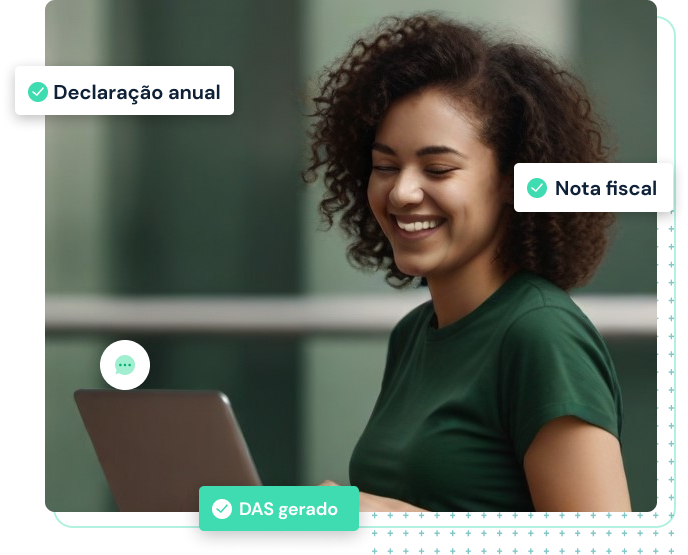
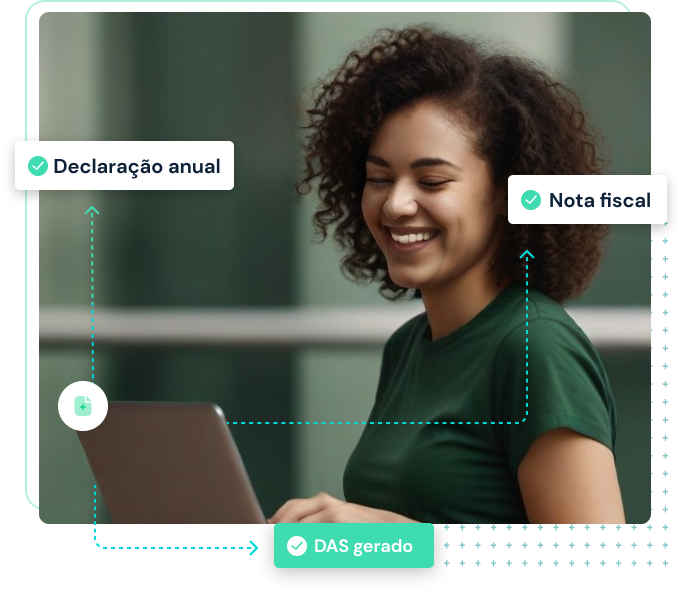
📦 NEW: new image hero

diff --git a/css/main.css b/css/main.css
@@ -1,1 +1,1 @@
-*{margin:0;padding:0;list-style-type:none;list-style:none;text-decoration:none;outline:none;border:none;-webkit-box-sizing:border-box;box-sizing:border-box;font-family:"Inter",sans-serif}img{max-width:100%;display:block}html{font-size:62.5%;overflow-x:hidden}button{background-color:rgba(0,0,0,0);cursor:pointer}.container{width:100%;max-width:124.6rem;padding:0 15px;margin:0 auto}.d-flex{display:-webkit-box;display:-ms-flexbox;display:flex}.between{-webkit-box-pack:justify;-ms-flex-pack:justify;justify-content:space-between}.text-center{text-align:center}.align-center{-webkit-box-align:center;-ms-flex-align:center;align-items:center}.text-dark{color:#33303e}.color-light{color:#fff}.text-cancel{color:#ced7e1}.btn-whats{display:none;position:fixed;bottom:25px;right:20px;background-color:#25cb9e;padding:12px 12px 10px 13px;border-radius:50px;z-index:10;-webkit-box-shadow:5px 1px 15px 2px rgba(0,0,0,.26);box-shadow:5px 1px 15px 2px rgba(0,0,0,.26)}.mt-1{margin-top:.25rem}.mt-2{margin-top:.5rem}.mt-3{margin-top:1rem}.mt-4{margin-top:1.5rem}.mt-5{margin-top:3rem}.mr-1{margin-right:.25rem}.mr-2{margin-right:.5rem}.mr-3{margin-right:1rem}.mr-4{margin-right:1.5rem}.mr-5{margin-right:3rem}.mb-1{margin-bottom:.25rem}.mb-2{margin-bottom:.5rem}.mb-3{margin-bottom:1rem}.mb-4{margin-bottom:1.5rem}.mb-5{margin-bottom:3rem}.ml-1{margin-left:.25rem}.ml-2{margin-left:.5rem}.ml-3{margin-left:1rem}.ml-4{margin-left:1.5rem}.ml-5{margin-left:3rem}.pt-1{padding-top:.25rem}.pt-2{padding-top:.5rem}.pt-3{padding-top:1rem}.pt-4{padding-top:1.5rem}.pt-5{padding-top:3rem}.pr-1{padding-right:.25rem}.pr-2{padding-right:.5rem}.pr-3{padding-right:1rem}.pr-4{padding-right:1.5rem}.pr-5{padding-right:3rem}.pb-1{padding-bottom:.25rem}.pb-2{padding-bottom:.5rem}.pb-3{padding-bottom:1rem}.pb-4{padding-bottom:1.5rem}.pb-5{padding-bottom:3rem}.pl-1{padding-left:.25rem}.pl-2{padding-left:.5rem}.pl-3{padding-left:1rem}.pl-4{padding-left:1.5rem}.pl-5{padding-left:3rem}.mx-auto{margin-left:auto;margin-right:auto}.my-auto{margin-top:auto;margin-bottom:auto}h1{font-weight:600;font-size:6.4rem}h2{font-weight:bold;font-size:4rem}h3{font-size:2.4rem;line-height:150%}h4{font-size:2rem;line-height:112%}h1,h2{line-height:112%;letter-spacing:-1px}h3,h4{font-weight:500;letter-spacing:-1px}h1,h2,h3,h4{font-family:"Barlow",sans-serif;color:#4e4b59}p{font-weight:400;font-size:1.8rem;line-height:150%;color:#33303e}.subtitle{color:#00d7d7;display:table;font-size:1.4rem;font-weight:500;padding:2px 15px;border-radius:25px;margin:0 auto;text-transform:uppercase}.title-section{font-weight:600;font-size:3.5rem;text-align:center;margin-top:8px}.btn-primary,.btn-secondary{font-family:"Montserrat",sans-serif;border-radius:12px;padding:0 3rem;font-size:1.8rem;line-height:4.5rem;font-weight:500}.btn-primary{background-color:#00d7d7;font-weight:500;color:#242424;-webkit-transition:background-color .3s;transition:background-color .3s;color:#fff}.btn-primary:hover{background-color:#2ed1be}.btn-secondary{border:1px solid #00d7d7;background-color:rgba(0,0,0,0);font-weight:500;color:#00d7d7;-webkit-transition:all .3s;transition:all .3s}.btn-secondary:hover{background-color:#2ed1be;color:#fff}.btn-secondary.white{border:1px solid #fff;color:#fff;-webkit-transition:all .3s;transition:all .3s}.btn-secondary.white:hover{background-color:#fff;color:#ffce2e}@media(max-width: 600px){.btn-primary{line-height:.8rem;height:45px;padding:0 2rem;font-size:1.5rem}}header{position:absolute;top:0;left:0;width:100%;height:8rem;display:-webkit-box;display:-ms-flexbox;display:flex;border-bottom:2px solid #ecf2fb;background-color:#fff}header .btn-secondary{border:none}header .container{display:-webkit-box;display:-ms-flexbox;display:flex;-webkit-box-orient:vertical;-webkit-box-direction:normal;-ms-flex-direction:center;flex-direction:center;-webkit-box-align:center;-ms-flex-align:center;align-items:center;-webkit-box-pack:justify;-ms-flex-pack:justify;justify-content:space-between}header nav{display:-webkit-box;display:-ms-flexbox;display:flex;-webkit-box-align:center;-ms-flex-align:center;align-items:center}header nav ul{display:-webkit-box;display:-ms-flexbox;display:flex;-webkit-box-align:center;-ms-flex-align:center;align-items:center}header nav ul li{display:-webkit-box;display:-ms-flexbox;display:flex}header nav ul li img{margin-left:1.2rem}header nav ul li:not(:first-child){margin-left:4.8rem}header nav ul li a{font-family:"Inter",sans-serif;font-weight:500;font-size:1.6rem;line-height:125%;color:#404040;opacity:.7;-webkit-transition:color .3s;transition:color .3s}header nav ul li a:hover{color:#00d7d7}@media(max-width: 800px){header nav ul{display:none}}@media(max-width: 600px){header{display:-webkit-box;display:-ms-flexbox;display:flex;-webkit-box-align:center;-ms-flex-align:center;align-items:center}header nav ul{display:none}header .dots{display:block}header .btn-secondary{display:none}}.menu-mobile{background:#fff;border-radius:8px;width:100%;height:50vh;position:fixed;right:0;bottom:0;z-index:12;display:none}.menu-mobile::before{content:"";width:100%;height:50vh;background-color:rgba(0,0,0,.7098039216);position:absolute;top:-100%}.menu-mobile__icons{position:absolute;position:absolute;bottom:0;left:50%;-webkit-transform:translateX(-50%);transform:translateX(-50%)}.menu-mobile__icons svg{width:24px;margin:8px}.menu-mobile .icon-tabler-x{position:absolute;top:16px;right:16px}.menu-mobile ul{width:100%;position:absolute;top:50%;-webkit-transform:translateY(-55%);transform:translateY(-55%)}.menu-mobile ul li{text-align:center;font-size:2rem;margin:24px 0;font-weight:700}.menu-mobile ul li a{color:#242424}.show{display:block}.dots{color:#fff;background-color:#00d7d7;padding:8px;border-radius:40px;margin-right:16px;display:none}.dots .icons-dots{display:none}footer{background-color:#fff;padding-top:8rem;font-size:2rem;font-size:1.4rem;line-height:165%;color:#c6c5ce;border-top:2px solid #ecf2fb;z-index:1;position:relative}footer .footer_description{max-width:100%}footer .d-flex{-webkit-box-pack:justify;-ms-flex-pack:justify;justify-content:space-between}footer .d-flex h4{margin-bottom:24px;color:#7a7786}footer .d-flex a{color:#7a7786;margin:8px 0}footer .d-flex a:hover{color:#25cb9e}footer .d-flex address a{display:-webkit-box;display:-ms-flexbox;display:flex;-webkit-box-align:center;-ms-flex-align:center;align-items:center;margin-bottom:24px}footer .d-flex address span{margin-right:16px}footer .d-flex ul li{display:-webkit-box;display:-ms-flexbox;display:flex;-webkit-box-align:center;-ms-flex-align:center;align-items:center}footer .d-flex ul li span{margin-right:8px;display:-webkit-box;display:-ms-flexbox;display:flex;-webkit-box-align:center;-ms-flex-align:center;align-items:center;color:#7a7786}footer .credits{border-top:1px solid #272727;padding:3rem 0;margin-top:64px;position:relative;background:radial-gradient(circle at 50% 72%, #044740 0, #002824 55%);background-color:#170027}footer .credits .btn-top{position:absolute;top:-18px;left:50%;-webkit-transform:translateX(-50%);transform:translateX(-50%);background-color:#242424;color:#fff;border-radius:80px;width:34px;height:34px;display:-webkit-box;display:-ms-flexbox;display:flex;-webkit-box-align:center;-ms-flex-align:center;align-items:center;-webkit-box-pack:center;-ms-flex-pack:center;justify-content:center;-webkit-box-shadow:2px 6px 10px 2px rgba(0,0,0,.2);box-shadow:2px 6px 10px 2px rgba(0,0,0,.2);-webkit-transition:all .3s;transition:all .3s}footer .credits .btn-top:hover{background-color:#25cb9e}footer .credits .container{display:-webkit-box;display:-ms-flexbox;display:flex;-webkit-box-orient:vertical;-webkit-box-direction:normal;-ms-flex-direction:center;flex-direction:center;-webkit-box-align:center;-ms-flex-align:center;align-items:center;-webkit-box-pack:justify;-ms-flex-pack:justify;justify-content:space-between}footer .credits .e-font-icon-svg{width:24px;color:#2ed1be;margin-right:16px}@media(max-width: 600px){footer .d-flex{-webkit-box-orient:vertical;-webkit-box-direction:normal;-ms-flex-direction:column;flex-direction:column}footer .d-flex h4{margin:24px 0}footer .wps-games{margin-top:16px;display:-webkit-box;display:-ms-flexbox;display:flex;-webkit-box-orient:vertical;-webkit-box-direction:normal;-ms-flex-direction:column;flex-direction:column}}@media(max-width: 500px){footer .credits{z-index:11;background-color:#25cb9e}}.s-hero{width:100%;background-color:#fff;padding-top:15.1rem}.s-hero .d-flex{-webkit-box-align:center;-ms-flex-align:center;align-items:center}.s-hero__text{margin-bottom:3.9rem;width:50%}.s-hero__text .lead{display:-webkit-box;display:-ms-flexbox;display:flex;-webkit-box-align:center;-ms-flex-align:center;align-items:center;color:#00d7d7;font-size:1.6rem;font-weight:500}.s-hero__text .title{font-size:4.5rem;line-height:120%;font-weight:600;color:#4e4b59;max-width:74rem}.s-hero__text .description{max-width:50rem;margin-top:3.4rem;margin-bottom:4rem;font-weight:400;font-size:1.8rem;line-height:150%;color:#595959}.s-hero__text .infos{max-width:95%;margin-top:7rem}.s-hero__text .infos li{border-bottom:1px solid #efefef;padding:9px}.s-hero__text .infos__title{color:#4e4b59;font-size:2.5rem}.s-hero__text .infos__description{font-size:1.4rem;color:#595959}.s-hero__image{margin:0 auto;width:45%}.s-hero__image img{border-radius:10px}@media(max-width: 800px){.s-hero{padding-top:12rem}.s-hero .d-flex{-webkit-box-orient:vertical;-webkit-box-direction:normal;-ms-flex-direction:column;flex-direction:column}.s-hero__text{text-align:center;width:100%}.s-hero__text .btn-primary{margin:0 auto;display:-webkit-box;display:-ms-flexbox;display:flex;-webkit-box-pack:justify;-ms-flex-pack:justify;justify-content:space-between;-webkit-box-orient:horizontal;-webkit-box-direction:normal;-ms-flex-direction:row;flex-direction:row}.s-hero__text .title{font-size:3rem}.s-hero__text .description{max-width:75%;margin:3rem auto}.s-hero__text .lead{-webkit-box-align:center;-ms-flex-align:center;align-items:center;-webkit-box-pack:center;-ms-flex-pack:center;justify-content:center}.s-hero__text .lead span{display:none}.s-hero__text .infos{-webkit-box-orient:horizontal;-webkit-box-direction:normal;-ms-flex-direction:row;flex-direction:row}.s-hero__image{width:100%}}.s-about{padding:90px 0}.s-about .d-flex{-ms-flex-pack:distribute;justify-content:space-around;-webkit-box-align:center;-ms-flex-align:center;align-items:center;margin-top:8rem}.s-about__image{width:45%}.s-about__text{width:50%}@media(max-width: 800px){.s-about .d-flex{-webkit-box-orient:vertical;-webkit-box-direction:reverse;-ms-flex-direction:column-reverse;flex-direction:column-reverse;margin-top:2.5rem}.s-about__image{width:100%;margin-top:4rem}.s-about__text{width:100%}.s-about__text p{text-align:left}.s-about__text h4{text-align:center}.s-about__text img{margin:0 auto}}.s-service{padding:90px 0;background:-webkit-gradient(linear, left top, left bottom, from(rgb(255, 255, 255)), to(rgb(225, 255, 247)));background:linear-gradient(rgb(255, 255, 255) 0%, rgb(225, 255, 247) 100%)}.s-service .box-container{display:-webkit-box;display:-ms-flexbox;display:flex;-webkit-box-align:center;-ms-flex-align:center;align-items:center;-webkit-box-pack:center;-ms-flex-pack:center;justify-content:center;gap:50px;margin-top:80px}.s-service .box{width:30%;background-color:#fff;border:1px solid #ececec;border-radius:10px;padding:16px;position:relative}.s-service .box .badge{background-color:#25cb9e;padding:4px 8px;color:#fff;border-radius:8px;font-weight:500;display:table;margin:0 auto;position:absolute;left:50%;-webkit-transform:translateX(-50%);transform:translateX(-50%)}.s-service .box .d-flex-price{display:-webkit-box;display:-ms-flexbox;display:flex;margin-top:24px;-webkit-box-pack:justify;-ms-flex-pack:justify;justify-content:space-between}.s-service .box .price{color:#25cb9e;font-weight:600}.s-service .box ul{margin-top:5rem}.s-service .box ul li{display:-webkit-box;display:-ms-flexbox;display:flex;font-size:1.6rem;margin-bottom:2rem}.s-service .box ul li img{margin-right:16px}.s-service .box .btn-price{background-color:rgba(170,255,232,.3568627451);color:#25cb9e;font-weight:600;padding:8px 16px;border-radius:4px;font-size:1.6rem;display:-webkit-box;display:-ms-flexbox;display:flex;-webkit-box-align:center;-ms-flex-align:center;align-items:center;-webkit-box-pack:center;-ms-flex-pack:center;justify-content:center;width:80%;margin:0 auto;margin-top:60px;-webkit-transition:all .3s ease;transition:all .3s ease;margin-bottom:24px}.s-service .box .btn-price:hover{background-color:rgba(170,255,232,.8549019608)}.s-service .box:hover{border:1px solid #25cb9e}@media(max-width: 640px){.s-service .d-flex{-webkit-box-orient:vertical;-webkit-box-direction:reverse;-ms-flex-direction:column-reverse;flex-direction:column-reverse;margin-top:2.5rem}.s-service .box{width:100%}}
+*{margin:0;padding:0;list-style-type:none;list-style:none;text-decoration:none;outline:none;border:none;-webkit-box-sizing:border-box;box-sizing:border-box;font-family:"Inter",sans-serif}img{max-width:100%;display:block}html{font-size:62.5%;overflow-x:hidden}button{background-color:rgba(0,0,0,0);cursor:pointer}.container{width:100%;max-width:124.6rem;padding:0 15px;margin:0 auto}.d-flex{display:-webkit-box;display:-ms-flexbox;display:flex}.between{-webkit-box-pack:justify;-ms-flex-pack:justify;justify-content:space-between}.text-center{text-align:center}.align-center{-webkit-box-align:center;-ms-flex-align:center;align-items:center}.text-dark{color:#33303e}.color-light{color:#fff}.text-cancel{color:#ced7e1}.btn-whats{display:none;position:fixed;bottom:25px;right:20px;background-color:#25cb9e;padding:12px 12px 10px 13px;border-radius:50px;z-index:10;-webkit-box-shadow:5px 1px 15px 2px rgba(0,0,0,.26);box-shadow:5px 1px 15px 2px rgba(0,0,0,.26)}.mt-1{margin-top:.25rem}.mt-2{margin-top:.5rem}.mt-3{margin-top:1rem}.mt-4{margin-top:1.5rem}.mt-5{margin-top:3rem}.mr-1{margin-right:.25rem}.mr-2{margin-right:.5rem}.mr-3{margin-right:1rem}.mr-4{margin-right:1.5rem}.mr-5{margin-right:3rem}.mb-1{margin-bottom:.25rem}.mb-2{margin-bottom:.5rem}.mb-3{margin-bottom:1rem}.mb-4{margin-bottom:1.5rem}.mb-5{margin-bottom:3rem}.ml-1{margin-left:.25rem}.ml-2{margin-left:.5rem}.ml-3{margin-left:1rem}.ml-4{margin-left:1.5rem}.ml-5{margin-left:3rem}.pt-1{padding-top:.25rem}.pt-2{padding-top:.5rem}.pt-3{padding-top:1rem}.pt-4{padding-top:1.5rem}.pt-5{padding-top:3rem}.pr-1{padding-right:.25rem}.pr-2{padding-right:.5rem}.pr-3{padding-right:1rem}.pr-4{padding-right:1.5rem}.pr-5{padding-right:3rem}.pb-1{padding-bottom:.25rem}.pb-2{padding-bottom:.5rem}.pb-3{padding-bottom:1rem}.pb-4{padding-bottom:1.5rem}.pb-5{padding-bottom:3rem}.pl-1{padding-left:.25rem}.pl-2{padding-left:.5rem}.pl-3{padding-left:1rem}.pl-4{padding-left:1.5rem}.pl-5{padding-left:3rem}.mx-auto{margin-left:auto;margin-right:auto}.my-auto{margin-top:auto;margin-bottom:auto}h1{font-weight:600;font-size:6.4rem}h2{font-weight:bold;font-size:4rem}h3{font-size:2.4rem;line-height:150%}h4{font-size:2rem;line-height:112%}h1,h2{line-height:112%;letter-spacing:-1px}h3,h4{font-weight:500;letter-spacing:-1px}h1,h2,h3,h4{font-family:"Barlow",sans-serif;color:#4e4b59}p{font-weight:400;font-size:1.8rem;line-height:150%;color:#33303e}.subtitle{color:#00d7d7;display:table;font-size:1.4rem;font-weight:500;padding:2px 15px;border-radius:25px;margin:0 auto;text-transform:uppercase}.title-section{font-weight:600;font-size:3.5rem;text-align:center;margin-top:8px}.btn-primary,.btn-secondary{font-family:"Montserrat",sans-serif;border-radius:12px;padding:0 3rem;font-size:1.8rem;line-height:4.5rem;font-weight:500}.btn-primary{background-color:#00d7d7;font-weight:500;color:#242424;-webkit-transition:background-color .3s;transition:background-color .3s;color:#fff}.btn-primary:hover{background-color:#2ed1be}.btn-secondary{border:1px solid #00d7d7;background-color:rgba(0,0,0,0);font-weight:500;color:#00d7d7;-webkit-transition:all .3s;transition:all .3s}.btn-secondary:hover{background-color:#2ed1be;color:#fff}.btn-secondary.white{border:1px solid #fff;color:#fff;-webkit-transition:all .3s;transition:all .3s}.btn-secondary.white:hover{background-color:#fff;color:#ffce2e}@media(max-width: 600px){.btn-primary{line-height:.8rem;height:45px;padding:0 2rem;font-size:1.5rem}}header{position:fixed;top:0;left:0;width:100%;height:8rem;display:-webkit-box;display:-ms-flexbox;display:flex;z-index:12;border-bottom:2px solid #ecf2fb;background-color:#fff}header .btn-secondary{border:none}header .container{display:-webkit-box;display:-ms-flexbox;display:flex;-webkit-box-orient:vertical;-webkit-box-direction:normal;-ms-flex-direction:center;flex-direction:center;-webkit-box-align:center;-ms-flex-align:center;align-items:center;-webkit-box-pack:justify;-ms-flex-pack:justify;justify-content:space-between}header nav{display:-webkit-box;display:-ms-flexbox;display:flex;-webkit-box-align:center;-ms-flex-align:center;align-items:center}header nav ul{display:-webkit-box;display:-ms-flexbox;display:flex;-webkit-box-align:center;-ms-flex-align:center;align-items:center}header nav ul li{display:-webkit-box;display:-ms-flexbox;display:flex}header nav ul li img{margin-left:1.2rem}header nav ul li:not(:first-child){margin-left:4.8rem}header nav ul li a{font-family:"Inter",sans-serif;font-weight:500;font-size:1.6rem;line-height:125%;color:#404040;opacity:.7;-webkit-transition:color .3s;transition:color .3s}header nav ul li a:hover{color:#00d7d7}@media(max-width: 800px){header nav ul{display:none}}@media(max-width: 600px){header{height:7rem;display:-webkit-box;display:-ms-flexbox;display:flex;-webkit-box-align:center;-ms-flex-align:center;align-items:center}header nav ul{display:none}header .dots{display:block}header .btn-secondary{display:none}}.menu-mobile{background:#fff;border-radius:8px;width:100%;height:50vh;position:fixed;right:0;bottom:0;z-index:12;display:none}.menu-mobile::before{content:"";width:100%;height:50vh;background-color:rgba(0,0,0,.7098039216);position:absolute;top:-100%}.menu-mobile__icons{position:absolute;position:absolute;bottom:0;left:50%;-webkit-transform:translateX(-50%);transform:translateX(-50%)}.menu-mobile__icons svg{width:24px;margin:8px}.menu-mobile .icon-tabler-x{position:absolute;top:16px;right:16px}.menu-mobile ul{width:100%;position:absolute;top:50%;-webkit-transform:translateY(-55%);transform:translateY(-55%)}.menu-mobile ul li{text-align:center;font-size:2rem;margin:24px 0;font-weight:700}.menu-mobile ul li a{color:#242424}.show{display:block}.dots{color:#fff;background-color:#00d7d7;padding:8px;border-radius:40px;margin-right:16px;display:none}.dots .icons-dots{display:none}footer{background-color:#fff;padding-top:8rem;font-size:2rem;font-size:1.4rem;line-height:165%;color:#c6c5ce;border-top:2px solid #ecf2fb;z-index:1;position:relative}footer .footer_description{max-width:100%}footer .d-flex{-webkit-box-pack:justify;-ms-flex-pack:justify;justify-content:space-between}footer .d-flex h4{margin-bottom:24px;color:#7a7786}footer .d-flex a{color:#7a7786;margin:8px 0}footer .d-flex a:hover{color:#25cb9e}footer .d-flex address a{display:-webkit-box;display:-ms-flexbox;display:flex;-webkit-box-align:center;-ms-flex-align:center;align-items:center;margin-bottom:24px}footer .d-flex address span{margin-right:16px}footer .d-flex ul li{display:-webkit-box;display:-ms-flexbox;display:flex;-webkit-box-align:center;-ms-flex-align:center;align-items:center}footer .d-flex ul li span{margin-right:8px;display:-webkit-box;display:-ms-flexbox;display:flex;-webkit-box-align:center;-ms-flex-align:center;align-items:center;color:#7a7786}footer .credits{border-top:1px solid #272727;padding:3rem 0;margin-top:64px;position:relative;background:radial-gradient(circle at 50% 72%, #044740 0, #002824 55%);background-color:#170027}footer .credits .btn-top{position:absolute;top:-18px;left:50%;-webkit-transform:translateX(-50%);transform:translateX(-50%);background-color:#242424;color:#fff;border-radius:80px;width:34px;height:34px;display:-webkit-box;display:-ms-flexbox;display:flex;-webkit-box-align:center;-ms-flex-align:center;align-items:center;-webkit-box-pack:center;-ms-flex-pack:center;justify-content:center;-webkit-box-shadow:2px 6px 10px 2px rgba(0,0,0,.2);box-shadow:2px 6px 10px 2px rgba(0,0,0,.2);-webkit-transition:all .3s;transition:all .3s}footer .credits .btn-top:hover{background-color:#25cb9e}footer .credits .container{display:-webkit-box;display:-ms-flexbox;display:flex;-webkit-box-orient:vertical;-webkit-box-direction:normal;-ms-flex-direction:center;flex-direction:center;-webkit-box-align:center;-ms-flex-align:center;align-items:center;-webkit-box-pack:justify;-ms-flex-pack:justify;justify-content:space-between}footer .credits .e-font-icon-svg{width:24px;color:#2ed1be;margin-right:16px}@media(max-width: 600px){footer .d-flex{-webkit-box-orient:vertical;-webkit-box-direction:normal;-ms-flex-direction:column;flex-direction:column}footer .d-flex h4{margin:24px 0}footer .wps-games{margin-top:16px;display:-webkit-box;display:-ms-flexbox;display:flex;-webkit-box-orient:vertical;-webkit-box-direction:normal;-ms-flex-direction:column;flex-direction:column}}@media(max-width: 500px){footer .credits{z-index:11;background-color:#25cb9e}}.s-hero{width:100%;background-color:#fff;padding-top:15.1rem}.s-hero .d-flex{-webkit-box-align:center;-ms-flex-align:center;align-items:center}.s-hero__text{margin-bottom:3.9rem;width:50%}.s-hero__text .lead{display:-webkit-box;display:-ms-flexbox;display:flex;-webkit-box-align:center;-ms-flex-align:center;align-items:center;color:#00d7d7;font-size:1.6rem;font-weight:500}.s-hero__text .title{font-size:4.5rem;line-height:120%;font-weight:600;color:#4e4b59;max-width:74rem}.s-hero__text .description{max-width:50rem;margin-top:3.4rem;margin-bottom:4rem;font-weight:400;font-size:1.8rem;line-height:150%;color:#595959}.s-hero__text .infos{max-width:95%;margin-top:7rem}.s-hero__text .infos li{border-bottom:1px solid #efefef;padding:9px}.s-hero__text .infos__title{color:#4e4b59;font-size:2.5rem}.s-hero__text .infos__description{font-size:1.4rem;color:#595959}.s-hero__image{margin:0 auto;width:45%}.s-hero__image img{border-radius:10px}@media(max-width: 800px){.s-hero{padding-top:12rem}.s-hero .d-flex{-webkit-box-orient:vertical;-webkit-box-direction:normal;-ms-flex-direction:column;flex-direction:column}.s-hero__text{text-align:center;width:100%}.s-hero__text .btn-primary{margin:0 auto;display:-webkit-box;display:-ms-flexbox;display:flex;-webkit-box-pack:justify;-ms-flex-pack:justify;justify-content:space-between;-webkit-box-orient:horizontal;-webkit-box-direction:normal;-ms-flex-direction:row;flex-direction:row}.s-hero__text .title{font-size:3rem}.s-hero__text .description{max-width:100%;margin:3rem auto}.s-hero__text .lead{-webkit-box-align:center;-ms-flex-align:center;align-items:center;-webkit-box-pack:center;-ms-flex-pack:center;justify-content:center}.s-hero__text .lead span{display:none}.s-hero__text .infos{-webkit-box-orient:horizontal;-webkit-box-direction:normal;-ms-flex-direction:row;flex-direction:row}.s-hero__image{width:100%}}@media(max-width: 600px){.s-hero .btn-primary{width:80%}}.s-about{padding:90px 0}.s-about .d-flex{-ms-flex-pack:distribute;justify-content:space-around;-webkit-box-align:center;-ms-flex-align:center;align-items:center;margin-top:8rem}.s-about__image{width:45%}.s-about__text{width:50%}@media(max-width: 800px){.s-about .d-flex{-webkit-box-orient:vertical;-webkit-box-direction:reverse;-ms-flex-direction:column-reverse;flex-direction:column-reverse;margin-top:2.5rem}.s-about__image{width:100%;margin-top:4rem}.s-about__text{width:100%}.s-about__text p{text-align:left}.s-about__text h4{text-align:center}.s-about__text img{margin:0 auto}}.s-service{padding:90px 0;background:-webkit-gradient(linear, left top, left bottom, from(rgb(255, 255, 255)), to(rgb(225, 255, 247)));background:linear-gradient(rgb(255, 255, 255) 0%, rgb(225, 255, 247) 100%)}.s-service .box-container{display:-webkit-box;display:-ms-flexbox;display:flex;-webkit-box-align:center;-ms-flex-align:center;align-items:center;-webkit-box-pack:center;-ms-flex-pack:center;justify-content:center;gap:50px;margin-top:80px}.s-service .box{width:30%;background-color:#fff;border:1px solid #ececec;border-radius:10px;padding:16px;position:relative}.s-service .box .badge{background-color:#25cb9e;padding:4px 8px;color:#fff;border-radius:8px;font-weight:500;font-size:1.2rem;display:table;margin:0 auto;position:absolute;left:50%;-webkit-transform:translateX(-50%);transform:translateX(-50%)}.s-service .box .d-flex-price{display:-webkit-box;display:-ms-flexbox;display:flex;margin-top:24px;-webkit-box-pack:justify;-ms-flex-pack:justify;justify-content:space-between}.s-service .box .price{color:#25cb9e;font-weight:600}.s-service .box ul{margin-top:5rem}.s-service .box ul li{display:-webkit-box;display:-ms-flexbox;display:flex;font-size:1.6rem;margin-bottom:2rem}.s-service .box ul li img{margin-right:16px}.s-service .box .btn-price{background-color:rgba(170,255,232,.3568627451);color:#25cb9e;font-weight:600;padding:8px 16px;border-radius:4px;font-size:1.6rem;display:-webkit-box;display:-ms-flexbox;display:flex;-webkit-box-align:center;-ms-flex-align:center;align-items:center;-webkit-box-pack:center;-ms-flex-pack:center;justify-content:center;width:80%;margin:0 auto;margin-top:60px;-webkit-transition:all .3s ease;transition:all .3s ease;margin-bottom:24px}.s-service .box .btn-price:hover{background-color:rgba(170,255,232,.8549019608)}.s-service .box:hover{border:1px solid #25cb9e}@media(max-width: 640px){.s-service .d-flex{-webkit-box-orient:vertical;-webkit-box-direction:reverse;-ms-flex-direction:column-reverse;flex-direction:column-reverse;margin-top:2.5rem}.s-service .box{width:100%}}

diff --git a/index.html b/index.html
@@ -23,7 +23,7 @@
 </head>
 
 <body>
-  <header id="hero">
+  <header>
     <div class="container">
       <a href="./img/logo.svg" class="logo">
         <img src="./img/logo.svg" alt="Logo marlene" width="230px" />
@@ -125,7 +125,7 @@
     </div>
   </header>
 
-  <section class="s-hero">
+  <section class="s-hero" id="hero">
     <div class="container d-flex">
 
       <div class="s-hero__text" data-aos="fade-up" data-aos-duration="1000">
@@ -297,7 +297,7 @@
               <span>
                 <img src="img/icon-mail.svg" alt="icone email">
               </span>
-              <a href="mailto:contato@valhalladigital.com.br">contato@valhalladigital.com.br</a>
+              <a href="mailto:contato@contadora.com.br">contato@contadora.com.br</a>
 
             </li>
 

diff --git a/scss/_header.scss b/scss/_header.scss
@@ -1,10 +1,11 @@
 header {
-    position: absolute;
+    position: fixed;
     top: 0;
     left: 0;
     width: 100%;
     height: 8rem;
     display: flex;
+    z-index: 12;
 
     border-bottom: 2px solid #ecf2fb;
     background-color: $white;
@@ -16,6 +17,7 @@ header {
     .container {
         @include flex(row, center, space-between);
     }
+
     nav {
         display: flex;
         align-items: center;
@@ -48,6 +50,7 @@ header {
             }
         }
     }
+
     @include responsive(800px) {
         nav {
             ul {
@@ -55,7 +58,9 @@ header {
             }
         }
     }
+
     @include responsive(600px) {
+        height: 7rem;
         display: flex;
         align-items: center;
         nav {

diff --git a/scss/_home.scss b/scss/_home.scss
@@ -93,7 +93,7 @@
             }
 
             .description {
-                max-width: 75%;
+                max-width: 100%;
                 margin: 3rem auto;
             }
             .lead {
@@ -111,6 +111,12 @@
 
         &__image {
             width: 100%;
+        }
+    }
+
+    @include responsive(600px) {
+        .btn-primary {
+            width: 80%;
         }
     }
 }

diff --git a/scss/_s-service.scss b/scss/_s-service.scss
@@ -25,6 +25,7 @@
             color: $white;
             border-radius: 8px;
             font-weight: 500;
+            font-size: 1.2rem;
 
             display: table;
             margin: 0 auto;
